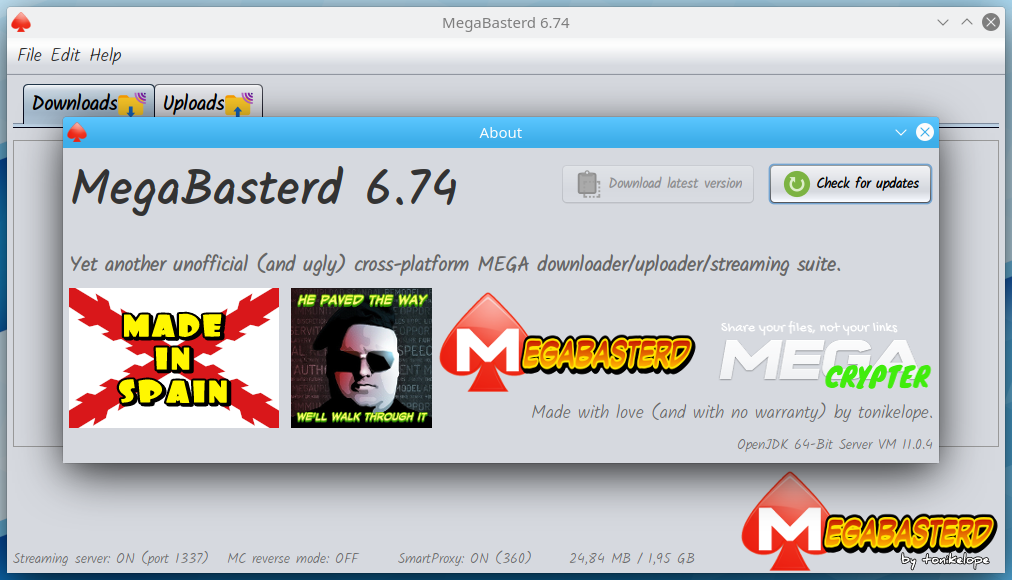
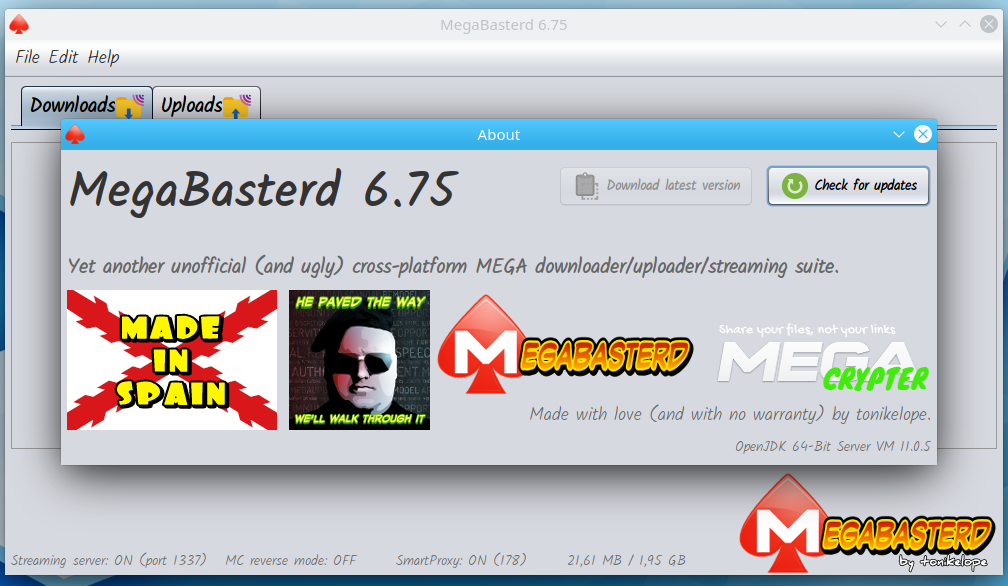
6.75
-Auto restart SmartProxy download if is more than 2 minutes without receiving any data.
-SmartProxy benchmark temporarily disabled.

(cherry picked from commit 23aa819fcb87af511ed193b64dafd9076c9033f2)

diff --git a/src/main/java/com/tonikelope/megabasterd/Download.java b/src/main/java/com/tonikelope/megabasterd/Download.java
@@ -46,6 +46,7 @@ import javax.swing.JComponent;
 public class Download implements Transference, Runnable, SecureSingleThreadNotifiable {
 
     public static final boolean VERIFY_CBC_MAC_DEFAULT = false;
+    public static final int PROGRESS_WATCHDOG_TIMEOUT = 120;
     public static final boolean USE_SLOTS_DEFAULT = true;
     public static final int WORKERS_DEFAULT = 6;
     public static final boolean USE_MEGA_ACCOUNT_DOWN = false;
@@ -98,6 +99,7 @@ public class Download implements Transference, Runnable, SecureSingleThreadNotif
     private volatile boolean _canceled;
     private volatile boolean _turbo;
     private volatile boolean _closed;
+    private final Object _progress_watchdog_lock;
 
     public Download(MainPanel main_panel, MegaAPI ma, String url, String download_path, String file_name, String file_key, Long file_size, String file_pass, String file_noexpire, boolean use_slots, boolean restart, String custom_chunks_dir) {
 
@@ -114,6 +116,7 @@ public class Download implements Transference, Runnable, SecureSingleThreadNotif
         _closed = false;
         _pause = false;
         _exit = false;
+        _progress_watchdog_lock = new Object();
         _last_download_url = null;
         _provision_ok = true;
         _progress = 0L;
@@ -158,6 +161,7 @@ public class Download implements Transference, Runnable, SecureSingleThreadNotif
         _finishing_download = false;
         _pause = false;
         _exit = false;
+        _progress_watchdog_lock = new Object();
         _last_download_url = null;
         _provision_ok = true;
         _progress = 0L;
@@ -631,6 +635,36 @@ public class Download implements Transference, Runnable, SecureSingleThreadNotif
                             }
                         });
 
+                        THREAD_POOL.execute(() -> {
+
+                            //PROGRESS WATCHDOG If a download (using SmartProxy) remains more than two minutes without advancing 1 byte, we restart it.
+                            LOG.log(Level.INFO, "{0} PROGRESS WATCHDOG HELLO!", Thread.currentThread().getName());
+
+                            long last_progress, progress = getProgress();
+
+                            do {
+                                last_progress = progress;
+
+                                synchronized (_progress_watchdog_lock) {
+                                    try {
+                                        _progress_watchdog_lock.wait(PROGRESS_WATCHDOG_TIMEOUT * 1000);
+                                        progress = getProgress();
+                                    } catch (InterruptedException ex) {
+                                        progress = -1;
+                                        Logger.getLogger(Download.class.getName()).log(Level.SEVERE, null, ex);
+                                    }
+                                }
+
+                            } while (!isExit() && (!isTurbo() || isPaused() || progress > last_progress));
+
+                            if (!isExit() && progress <= last_progress) {
+                                stopDownloader("PROGRESS WATCHDOG TIMEOUT!");
+                            }
+
+                            LOG.log(Level.INFO, "{0} PROGRESS WATCHDOG BYE BYE!", Thread.currentThread().getName());
+
+                        });
+
                         secureWait();
 
                         LOG.log(Level.INFO, "{0} Chunkdownloaders finished!", Thread.currentThread().getName());
@@ -882,6 +916,12 @@ public class Download implements Transference, Runnable, SecureSingleThreadNotif
                     restart();
                 }
             });
+        }
+
+        _exit = true;
+
+        synchronized (_progress_watchdog_lock) {
+            _progress_watchdog_lock.notifyAll();
         }
 
         LOG.log(Level.INFO, "{0}{1} Downloader: bye bye", new Object[]{Thread.currentThread().getName(), _file_name});

diff --git a/src/main/java/com/tonikelope/megabasterd/ChunkDownloader.java b/src/main/java/com/tonikelope/megabasterd/ChunkDownloader.java
@@ -1,7 +1,6 @@
 package com.tonikelope.megabasterd;
 
 import static com.tonikelope.megabasterd.MainPanel.*;
-import static com.tonikelope.megabasterd.MiscTools.*;
 import java.io.BufferedOutputStream;
 import java.io.File;
 import java.io.FileOutputStream;
@@ -230,6 +229,8 @@ public class ChunkDownloader implements Runnable, SecureSingleThreadNotifiable {
 
                 chunk_error = true;
 
+                timeout = false;
+
                 slow_proxy = false;
 
                 File tmp_chunk_file = null, chunk_file = null;
@@ -327,6 +328,9 @@ public class ChunkDownloader implements Runnable, SecureSingleThreadNotifiable {
 
                             http_error = 0;
 
+                            /*
+                                //Proxy speed benchmark
+                            
                             if (_current_smart_proxy != null && finish_chunk_time != -1) {
 
                                 //Update average chunk download speed using SmartProxy
@@ -337,8 +341,7 @@ public class ChunkDownloader implements Runnable, SecureSingleThreadNotifiable {
                                 long avg_chunk_speed = _download.getMain_panel().getGlobal_dl_speed().getAvg_chunk_speed();
 
                                 if (avg_chunk_speed != -1) {
-                                    //Proxy speed benchmark
-
+                                    
                                     if (chunk_speed < Math.round(avg_chunk_speed * SLOW_PROXY_PERC)) {
 
                                         LOG.log(Level.INFO, "{0} Worker [{1}] WARNING -> PROXY {2} CHUNK DOWNLOAD SPEED: {3}/s SEEMS TO BE SLOW (average is {4}/s) {4}", new Object[]{Thread.currentThread().getName(), _id, _current_smart_proxy, formatBytes(chunk_speed), formatBytes(avg_chunk_speed), _download.getFile_name()});
@@ -346,8 +349,8 @@ public class ChunkDownloader implements Runnable, SecureSingleThreadNotifiable {
                                         slow_proxy = true;
                                     }
                                 }
-                            }
-
+                            
+                            }*/
                             if (!FORCE_SMART_PROXY) {
                                 _current_smart_proxy = null;
                             }

diff --git a/src/main/java/com/tonikelope/megabasterd/MainPanel.java b/src/main/java/com/tonikelope/megabasterd/MainPanel.java
@@ -53,7 +53,7 @@ import javax.swing.UIManager;
  */
 public final class MainPanel {
 
-    public static final String VERSION = "6.74";
+    public static final String VERSION = "6.75";
     public static final int THROTTLE_SLICE_SIZE = 16 * 1024;
     public static final int DEFAULT_BYTE_BUFFER_SIZE = 16 * 1024;
     public static final int STREAMER_PORT = 1337;

diff --git a/src/main/java/com/tonikelope/megabasterd/Upload.java b/src/main/java/com/tonikelope/megabasterd/Upload.java
@@ -1000,6 +1000,8 @@ public class Upload implements Transference, Runnable, SecureSingleThreadNotifia
             });
         }
 
+        _exit = true;
+
         LOG.log(Level.INFO, "{0} Uploader {1} BYE BYE", new Object[]{Thread.currentThread().getName(), this.getFile_name()});
     }
 
